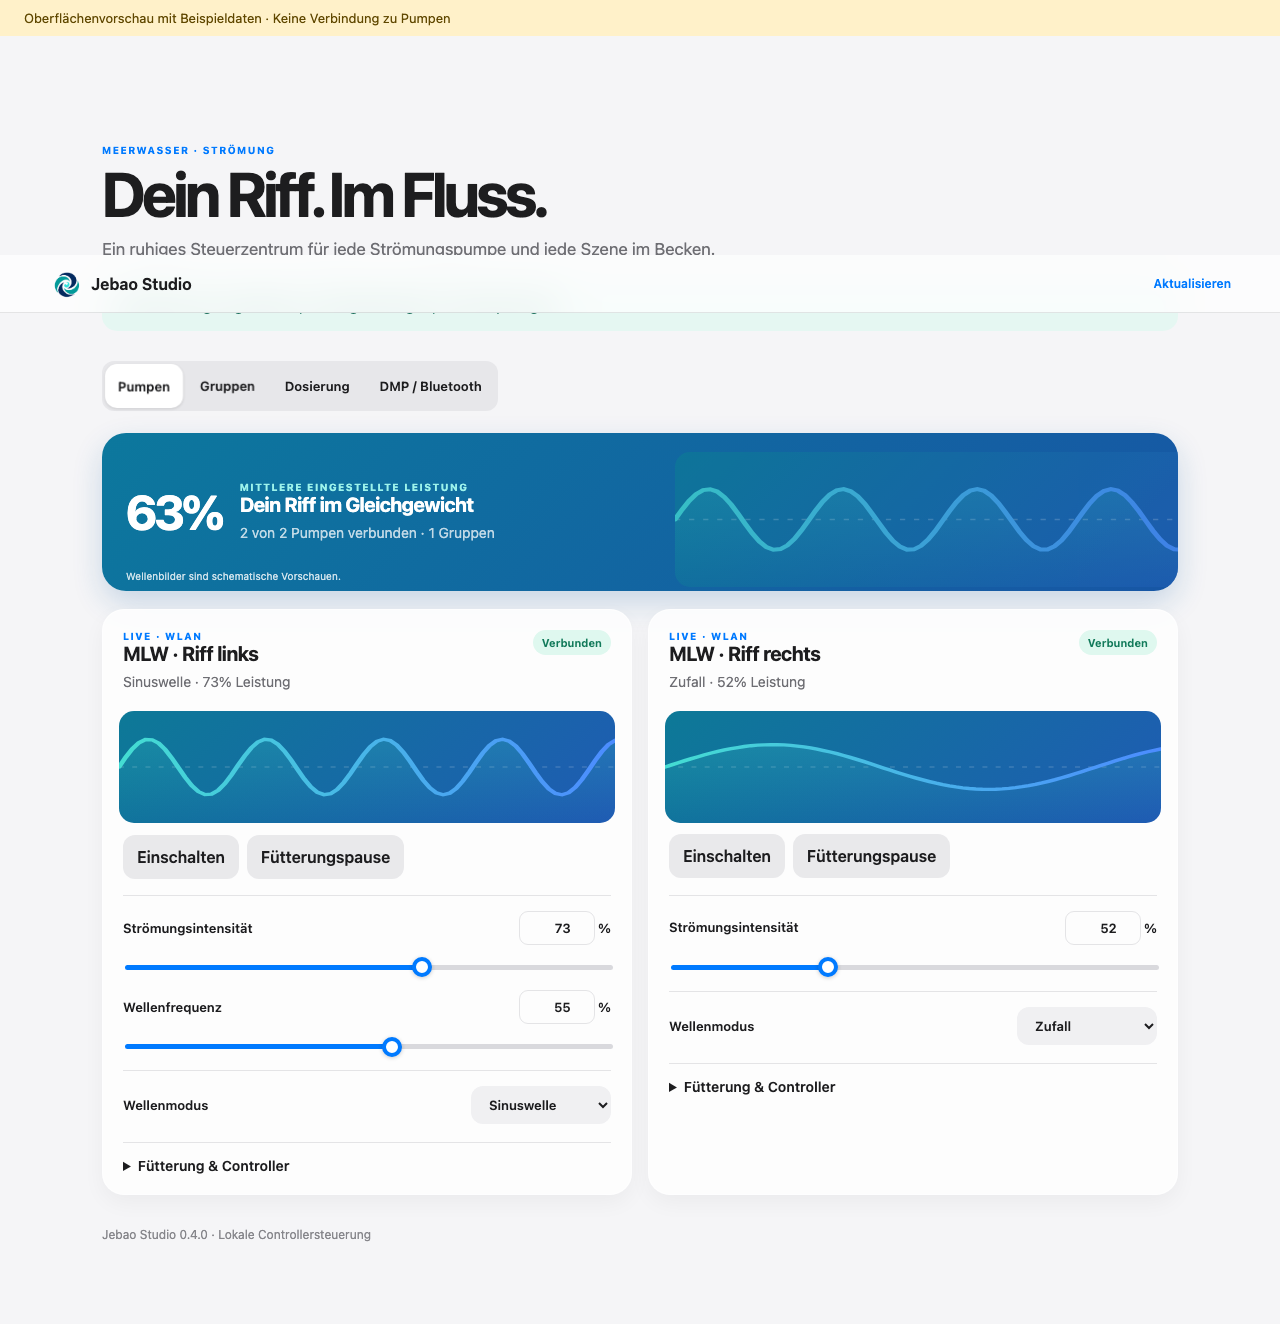
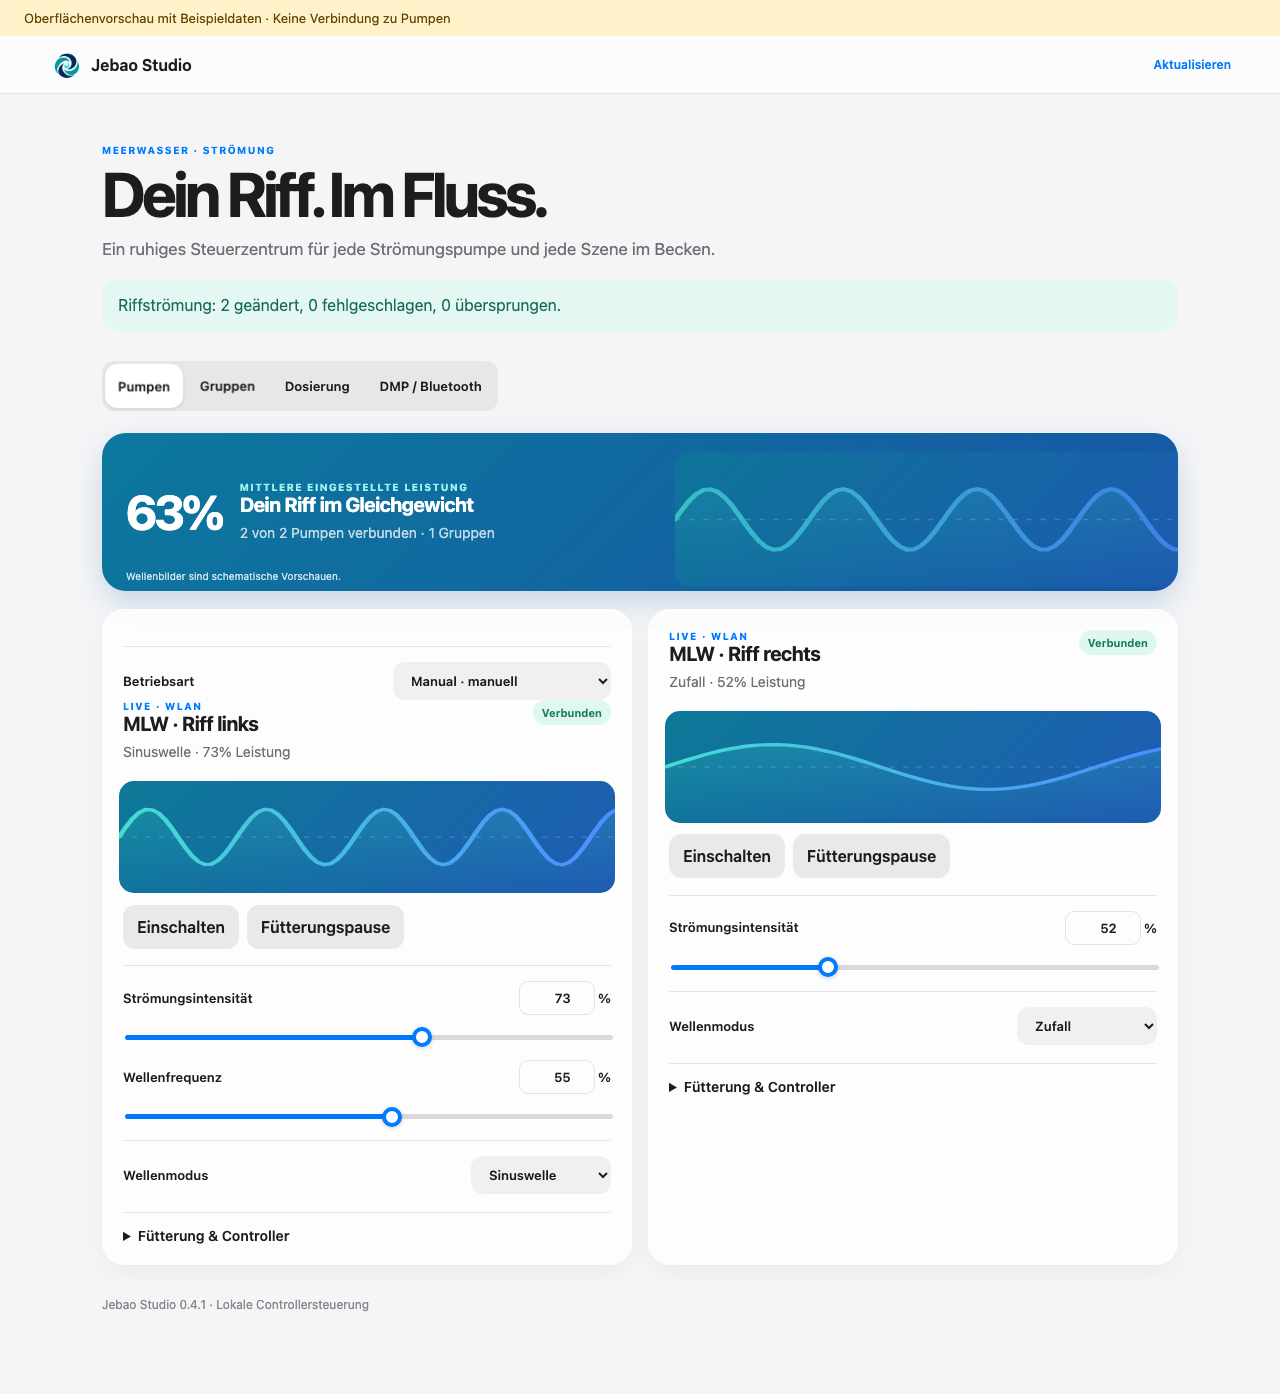
Expose program and manual operation with automatic Studio warnings

diff --git a/custom_components/jebao_studio/panel/jebao-studio.js b/custom_components/jebao_studio/panel/jebao-studio.js
@@ -1,4 +1,4 @@
-import {command, offline, labels, groupDevices, controllable, controlsForDevice} from './model.js?v=0.4.0';
+import {command, offline, labels, groupDevices, controllable, controlsForDevice} from './model.js?v=0.4.1';
 
 const el=(tag,text,cls)=>{const n=document.createElement(tag);if(text!=null)n.textContent=text;if(cls)n.className=cls;return n};
 const n=value=>Math.max(0,Math.min(100,Number(value)||0));
@@ -15,7 +15,7 @@ class JebaoStudioPanel extends HTMLElement {
   connectedCallback(){if(this._renderGuardInstalled)return;this._renderGuardInstalled=true;this._drafts=new Map();this._interacting=false;const draw=this.render.bind(this);this.render=()=>{if(!this._interacting&&!this.busy&&!this.shadowRoot.activeElement?.matches('input,select')){draw();this.decorate()}};const card=this.card.bind(this);this.card=device=>this.enhanceCard(card(device),device);const groupCard=this.groupCard.bind(this);this.groupCard=group=>this.enhanceGroup(groupCard(group),group)}
   decorate(){
     const root=this.shadowRoot;
-    const footer=root.querySelector?.('footer');if(footer)footer.textContent='Jebao Studio 0.4.0 · Lokale Controllersteuerung';
+    const footer=root.querySelector?.('footer');if(footer)footer.textContent='Jebao Studio 0.4.1 · Lokale Controllersteuerung';
     for(const wave of root.querySelectorAll?.('.wave')||[])wave.setAttribute('aria-label','Schematische Modusdarstellung, keine Messung des Wasserflusses');
     const summary=root.querySelector?.('.summary');if(summary){const label=summary.querySelector('.eyebrow');if(label)label.textContent='MITTLERE EINGESTELLTE LEISTUNG';summary.append(el('small','Wellenbilder sind schematische Vorschauen.','wave-note'))}
     const style=el('style');style.textContent='details{margin-top:18px;border-top:1px solid var(--line);padding-top:14px}summary{cursor:pointer;font-size:14px;font-weight:600}details .secondary{margin-top:10px}.wave-note{position:absolute;bottom:9px;left:24px;font-size:10px;opacity:.8}button{min-height:44px}button:focus-visible,select:focus-visible,input:focus-visible{outline:3px solid #007aff;outline-offset:3px}input[type=range]{touch-action:pan-y}input:disabled{opacity:.5}.card h2{overflow-wrap:anywhere}.control-label{gap:10px;align-items:center}.summary>div:not(.wave){z-index:1}.summary .wave{pointer-events:none}';root.append(style);
@@ -30,6 +30,8 @@ class JebaoStudioPanel extends HTMLElement {
     if(select&&modes.length){for(const option of [...select.options])if(!modes.every(s=>s.attributes.options?.includes(option.value)))option.remove();if(new Set(modes.map(s=>s.state)).size>1){const mixed=el('option','Unterschiedliche Modi');mixed.value='';mixed.disabled=true;mixed.selected=true;select.prepend(mixed);card.append(el('p','Die Pumpen haben unterschiedliche Modi. Eine Auswahl stellt den gemeinsamen Modus ein.','subtle'))}}
     const levels=sets.filter(c=>c.intensity).map(c=>value(c.intensity,states));
     if(new Set(levels).size>1)card.append(el('p','Leistungsbereich der Pumpen: '+Math.min(...levels)+'–'+Math.max(...levels)+' %. Der Gruppenregler setzt einen gemeinsamen Wert.','subtle'));
+    const programmed=sets.filter(c=>c.timer&&states[c.timer.entity_id]?.state==='on');
+    if(programmed.length){const note=el('div',null,'notice');note.append(el('p',programmed.length+' Pumpe(n) im Programm-Modus. Für gemeinsame manuelle Leistung und Wellenmodi zuerst auf Manual umstellen.'),this.button('Gruppe auf Manual umstellen',()=>this.setGroup(group,'timer',false),'primary'));card.prepend(note);for(const field of card.querySelectorAll('.control-area input, .mode-picker select'))field.disabled=true}
     return card;
   }
   enhanceCard(card,device){
@@ -45,7 +47,13 @@ class JebaoStudioPanel extends HTMLElement {
       if(button){button.textContent=feeding?'Fütterung beenden':'Fütterungspause';button.onclick=()=>this.set(c.feed.entity_id,!feeding)}
     }
     if(c.feedTime)details.append(this.slider(c.feedTime,'Fütterungsdauer',x=>this.set(c.feedTime.entity_id,x),'min'));
-    if(c.timer){const active=s[c.timer.entity_id]?.state==='on';details.append(el('p',active?'Zeitplan aktiv: Automatik kann manuelle Werte überschreiben.':'Zeitplan ausgeschaltet.','subtle'),this.button(active?'Zeitplan ausschalten':'Zeitplan einschalten',()=>this.set(c.timer.entity_id,!active),'secondary'))}
+    if(c.timer){
+      const active=s[c.timer.entity_id]?.state==='on';
+      const operating=el('label',null,'mode-picker'),select=el('select');operating.append(el('span','Betriebsart'));
+      for(const [v,label] of [['off','Manual · manuell'],['on','Programm · Gerätezeitplan']]){const option=el('option',label);option.value=v;option.selected=v===s[c.timer.entity_id].state;select.append(option)}
+      select.setAttribute('aria-label','Betriebsart');select.disabled=this.busy;select.onchange=async()=>{await this.set(c.timer.entity_id,select.value==='on');select.blur();this.render()};operating.append(select);card.prepend(operating);
+      if(active){const note=el('div',null,'notice');note.append(el('p','Programm-Modus aktiv: Der Gerätezeitplan steuert Leistung und Wellenmodus. Manuelle Änderungen werden dadurch überschrieben. Die Programme bleiben beim Umschalten gespeichert.'),this.button('Auf Manual umstellen',()=>this.set(c.timer.entity_id,false),'primary'));card.prepend(note);for(const field of card.querySelectorAll('.control-area input, .mode-picker:not(:first-child) select')){if(field!==select)field.disabled=true}}
+    }
     if(c.linkage){const row=this.picker(c.linkage,x=>this.set(c.linkage.entity_id,x));row.firstChild.textContent='Controller-Kopplung';details.append(row);if(/secondary/.test(s[c.linkage.entity_id]?.state||''))details.append(el('p','Slave-Betrieb: Die führende Pumpe kann Einstellungen vorgeben.','subtle'))}
     if(c.feed||c.timer||c.linkage)card.append(details);
     return card;

diff --git a/tests_homeassistant/test_integration.py b/tests_homeassistant/test_integration.py
@@ -167,7 +167,7 @@ async def test_actual_panel_registration_is_admin_only_and_idempotent(hass):
     panel = hass.data[frontend.DATA_PANELS]['jebao-studio']
     assert panel.require_admin is True
     assert panel.sidebar_title == 'Jebao Studio'
-    assert panel.config['_panel_custom']['module_url'].endswith('?v=0.4.0')
+    assert panel.config['_panel_custom']['module_url'].endswith('?v=0.4.1')
     hass.http.async_register_static_paths.assert_awaited_once()
     async_remove_studio_panel(hass)
     assert 'jebao-studio' not in hass.data[frontend.DATA_PANELS]

diff --git a/custom_components/jebao_studio/panel.py b/custom_components/jebao_studio/panel.py
@@ -22,7 +22,7 @@ async def async_register_studio_panel(hass):
         await async_register_panel(
             hass, frontend_url_path=PANEL_PATH,
             webcomponent_name="jebao-studio-panel", sidebar_title="Jebao Studio",
-            sidebar_icon="mdi:waves", module_url="/jebao_studio_panel/jebao-studio.js?v=0.4.0",
+            sidebar_icon="mdi:waves", module_url="/jebao_studio_panel/jebao-studio.js?v=0.4.1",
             require_admin=True, embed_iframe=False,
         )
 

diff --git a/docs/release-0.4.1.md b/docs/release-0.4.1.md
@@ -1,0 +1,20 @@
+# Jebao Studio 0.4.1
+
+MLW-Controller verwenden `TimerON` für den Gerätezeitplan: `on` = Programm,
+`off` = Manual. Die Betriebsart steht nun direkt auf der Pumpenkarte und lässt
+sich dort umschalten. Gespeicherte Programme werden dabei nicht bearbeitet.
+
+Bei aktivem Programm erscheint ein Hinweis mit einer Schaltfläche zum Wechsel
+auf Manual. Manuelle Leistungs-/Frequenz- und Wellenmodusregler sind gesperrt,
+solange der Controller das Geräteprogramm als aktiv meldet. Ein/Aus und
+Fütterung bleiben bedienbar. Änderungen aus Jebao Aqua werden über die normalen
+HA-Statusupdates sichtbar. Ohne verfügbaren TimerON-Status wird keine Betriebsart
+erfunden; die Erkennung gilt für Controllerprofile mit diesem Attribut.
+
+Gruppen erkennen erreichbare Pumpen im Programm-Modus und bieten das Umschalten
+auf Manual gemeinsam an. Es findet kein automatischer Wechsel ohne Nutzeraktion
+statt.
+
+Außerhalb des Studios ist die Umschaltung weiterhin mit der vorhandenen
+HA-Schalterentität „Gerätezeitplan“ möglich: Ausschalten für Manual,
+Einschalten für Programm. Dadurch können auch Automationen die Betriebsart setzen.

diff --git a/CHANGELOG.md b/CHANGELOG.md
@@ -1,5 +1,11 @@
 # Änderungen
 
+## 0.4.1
+
+- Programm-/Manual-Betriebsart sichtbar auf der Pumpenkarte und direkt umschaltbar.
+- Programm-Modus wird erkannt; Hinweis und Schutz der manuellen Regler verhindern widersprüchliche Bedienung.
+- Gruppen erkennen Pumpen mit aktivem Geräteprogramm und bieten gemeinsame Umschaltung auf Manual.
+
 ## 0.4.0
 
 - Stabile Attributzuordnung auch bei umbenannten oder übersetzten Entitäten.
